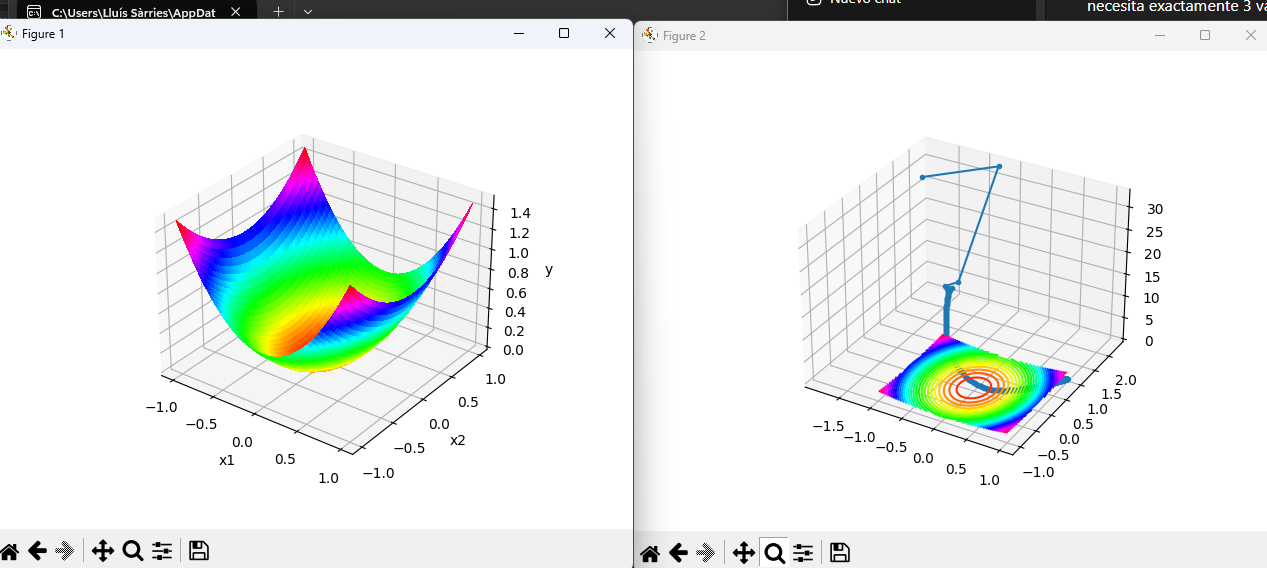
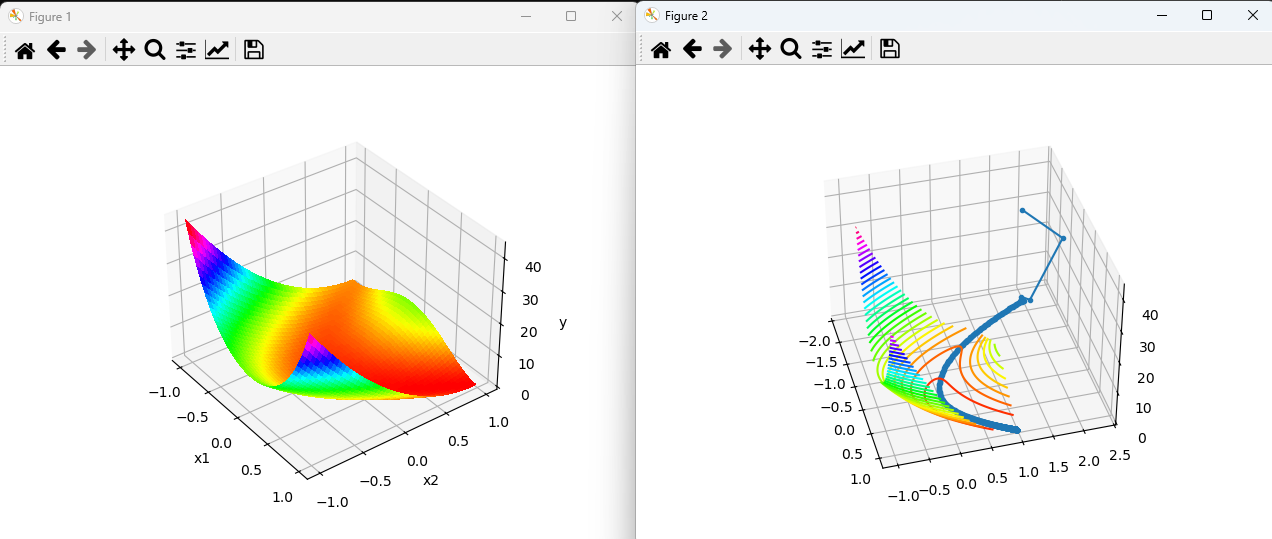
Better ronsenbrock

diff --git a/AutomaticDifferentiation-master/src/vectorial/Main.java b/AutomaticDifferentiation-master/src/vectorial/Main.java
@@ -2,11 +2,13 @@ package vectorial;
 
 public class Main {
     public static void main(String[] args) {
-        Function x1 = new Subscript(1, 2); // 2 is number of dimensions
+        Function x1 = new Subscript(1, 2);
         Function x2 = new Subscript(2, 2);
         Function gamma = new Constant(0.5, 2);
         Function func = new Add(new Multiply(x1, x1), new Multiply(gamma, new Multiply(x2, x2)));
-        /* Rosenbrock function
+
+        /*
+        //Rosenbrock function
         Function x1 = new Subscript(1, 2);
         Function x2 = new Subscript(2, 2);
         Function gamma = new Constant(1, 2);
@@ -25,7 +27,8 @@ public class Main {
                         )
                 )
         );
-         */
+        */
+
 
         double p[] = new double[] {-0.75, -0.5};
 
@@ -43,11 +46,11 @@ public class Main {
             sb.append(p[0]).append(", ").append(p[1]).append(", ").append(result.u);
 
             // Descendant
-            //p[0] -= h * result.uprime[0];
-            //p[1] -= h * result.uprime[1];
+            p[0] -= h * result.uprime[0];
+            p[1] -= h * result.uprime[1];
             // Ascendant
-            p[0] += h * result.uprime[0];
-            p[1] += h * result.uprime[1];
+            //p[0] += h * result.uprime[0];
+            //p[1] += h * result.uprime[1];
         }
 
         sb.append("]");
